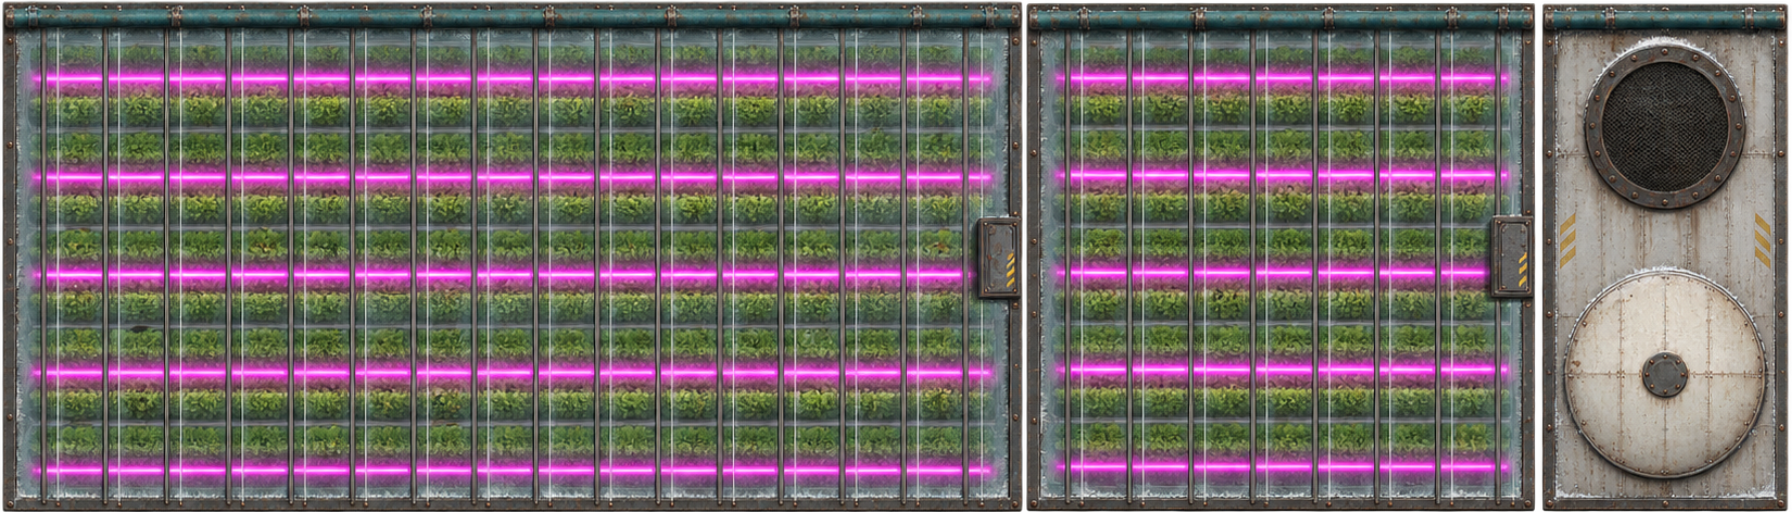
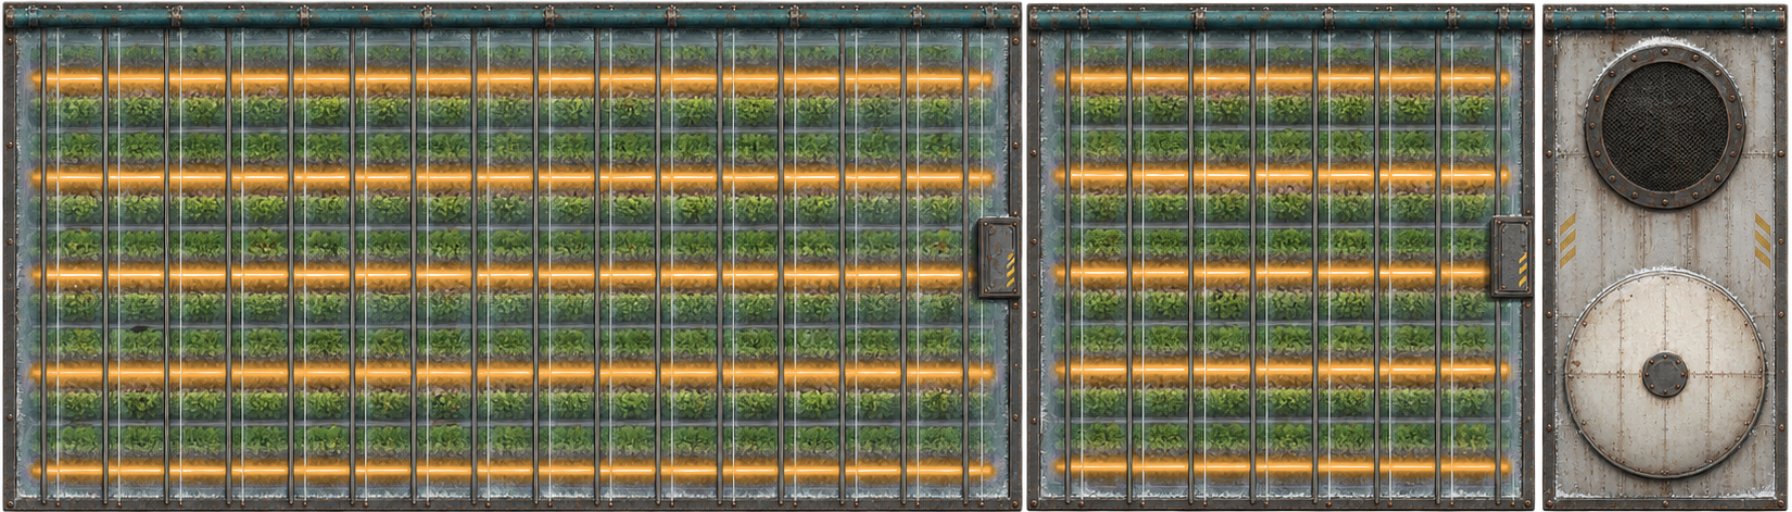
Covered farm grow-light is warm amber (owner: "I'm not a fan of the pink/purple"; picked "Warm amber"). grow-light-amber.py regrades each look's ImageGen raw from magenta to sodium amber, neutralising the faint pink spill on roofs, into <look>.amber.png, which the three tileset-authoring documents n

diff --git a/art-source/tilesets/grow-light-amber.py b/art-source/tilesets/grow-light-amber.py
@@ -1,0 +1,43 @@
+"""Regrades a covered farm sheet's grow-light from ImageGen's magenta to warm sodium amber (owner, 2026-11-10: "I'm not
+a fan of the pink/purple"; picked "Warm amber"). Reads `<look>.raw.png`, writes `<look>.amber.png` beside it, which the
+look's tileset-authoring document exports. Geometry and alpha are untouched; only pink-to-violet pixels move.
+
+Strong glow (saturated) takes amber at its own brightness; weak spill (a faint pink or salmon bloom on a roof) is
+neutralised to a warm grey instead, so it reads as lit surface rather than orange speckle.
+
+Usage: python art-source/tilesets/grow-light-amber.py hydro-sheds hydro-domes glasshouses
+"""
+import sys
+from pathlib import Path
+
+import numpy as np
+from PIL import Image
+
+HERE = Path(__file__).resolve().parent
+
+
+def regrade(src):
+    im = np.asarray(Image.open(src).convert('RGBA')).astype(np.float32) / 255
+    rgb, a = im[..., :3], im[..., 3:]
+    r, g, b = rgb[..., 0], rgb[..., 1], rgb[..., 2]
+    mx, mn = rgb.max(-1), rgb.min(-1)
+    d = np.maximum(mx - mn, 1e-6)
+    sat = np.where(mx > 0, (mx - mn) / np.maximum(mx, 1e-6), 0)
+    hue = np.where(mx == r, ((g - b) / d) % 6, np.where(mx == g, (b - r) / d + 2, (r - g) / d + 4)) * 60
+    # Pink to violet: 265-360 degrees; and the pale salmon bloom the light spills on a roof (0-20 degrees, faint
+    # only, so rust and copper of the same hue keep their colour).
+    spill = np.clip((22 - hue) / 6, 0, 1) * (hue < 22) * np.clip((0.32 - sat) / 0.08, 0, 1)
+    in_hue = np.clip(np.clip((hue - 265) / 15, 0, 1) + spill, 0, 1)
+    weight = in_hue * np.clip((sat - 0.012) / 0.05, 0, 1)
+    glow = np.clip((sat - 0.18) / 0.25, 0, 1)[..., None]
+    lum = (0.3 * r + 0.5 * g + 0.2 * b + mx) / 2
+    amber = np.stack([mx, mx * 0.70, mx * 0.30], -1)
+    grey = np.stack([lum * 1.02, lum, lum * 0.94], -1)
+    target = np.clip(amber * glow + grey * (1 - glow), 0, 1)
+    out = rgb * (1 - weight[..., None]) + target * weight[..., None]
+    return Image.fromarray((np.concatenate([out, a], -1) * 255).round().astype(np.uint8))
+
+
+if __name__ == '__main__':
+    for look in sys.argv[1:]:
+        regrade(HERE / f'{look}.raw.png').save(HERE / f'{look}.amber.png')

diff --git a/art-source/geometry-first-imagegen.md b/art-source/geometry-first-imagegen.md
@@ -131,7 +131,7 @@ Keep source inputs out of `mod/`; only exported art and its runtime catalog ship
 | Lobster trade | `templates/lobster-trade-guide.py`; a pressure tank with a lobster behind its porthole, the same tank burst open and empty with spilled water, a pressurised shipping crate and a 2x1 licensed range with a clamped pressure cooker, at 300 px a cell; ImageGen kept the layout but drew it about 1.6x, so each piece is cut at its guide frame carried through its own measured transform | `templates/lobster-trade-guide.*`, `tilesets/lobster-trade.*` | `street-kit-look` |
 | Street dressing | `templates/street-dressing-guide.py`; two sheets at 300 px a cell: three 3x1 shop awnings (wall rail on the frame's north edge) and two 1x1 street lamps (arm north, since cut for the street-lamps sheet); a 3x1 overhead pipe rack cut per cell with flange collars on every cell boundary so a straight cell repeats, the gantry column, a 2x1 jersey barrier, a bollard, a boom-gate post and its 3x1 arm | `templates/street-dressing-guide.*`, `templates/industrial-street-kit-guide.png`, `tilesets/street-dressing.*`, `tilesets/industrial-street-kit.*` | `main-street-look`, `street-kit-look` |
 | Street lamps | `templates/street-lamps-guide.py`; a street lamp seen straight down is its head, the post hidden under it, so no pole is drawn lying across the ground: a colonial lantern roof and a cobra-head housing as 1x1 kerb lamps, and the same heads on short brackets off a wall along the frame's north edge, at 300 px a cell. ImageGen kept the guide's scale and registration | `templates/street-lamps-guide.*`, `tilesets/street-lamps.*` | `street-kit-look`, `cordoned-facility-look` |
-| Covered farm | `templates/hydroponics-guide.py`; three looks of three pieces each, every piece filling its footprint with magenta in the guide wherever grow-light shines: a 6x3 pressurised shed with two lit skylights, its 3x3 half and a 2x3 pump house (160 px a cell); a 9x4 pair of lit geodesic domes on a tube, a 4x4 dome and a 2x4 tank station; an 8x4 glass hall under grow-light bars, its 4x4 half and a 2x4 boiler house (125 px a cell). ImageGen returned each sheet uniformly at 0.943 with every piece on its guide, so each is cut at its scaled guide frame (`tools/codex_imagegen.py`) | `templates/hydroponics-guide.py`, `templates/{hydro-sheds,hydro-domes,glasshouses}-guide.png`, `tilesets/{hydro-sheds,hydro-domes,glasshouses}.*` | `planet-skin-look` |
+| Covered farm | `templates/hydroponics-guide.py`; three looks of three pieces each, every piece filling its footprint with magenta in the guide wherever grow-light shines: a 6x3 pressurised shed with two lit skylights, its 3x3 half and a 2x3 pump house (160 px a cell); a 9x4 pair of lit geodesic domes on a tube, a 4x4 dome and a 2x4 tank station; an 8x4 glass hall under grow-light bars, its 4x4 half and a 2x4 boiler house (125 px a cell). ImageGen returned each sheet uniformly at 0.943 with every piece on its guide, so each is cut at its scaled guide frame (`tools/codex_imagegen.py`); `tilesets/grow-light-amber.py` regrades ImageGen's magenta grow-light to the owner's warm amber into `<look>.amber.png`, which is what exports | `templates/hydroponics-guide.py`, `tilesets/grow-light-amber.py`, `templates/{hydro-sheds,hydro-domes,glasshouses}-guide.png`, `tilesets/{hydro-sheds,hydro-domes,glasshouses}.*` | `planet-skin-look` |
 | Ship openings and decks | `ShipInteriorMaterialTemplate`; full-cell cardinal openings and seamless resin samples | `templates/ship-interior-materials.png`, `tilesets/ship-interior-materials.*` | `ship-materials` |
 
[1 lines of base64/hex data omitted]

diff --git a/roadmap/mapgen/design/story-map-pools.md b/roadmap/mapgen/design/story-map-pools.md
@@ -101,7 +101,8 @@ through or built on (`PlanetSkinTest`). It swaps:
   between pieces, each row of long pieces finished with a short one or a plant
   piece (pumps, tanks, a boiler), and short pieces on a grid on a plot too
   short for a long one. Three looks (`PlanetSkin.FarmLook`) await the owner's
-  pick, each piece lit by magenta grow-light and piped: pressurised sheds
+  pick, each piece lit by warm amber grow-light and piped (owner, over
+  ImageGen's pink: "Warm amber"): pressurised sheds
   (`hydro-sheds`), linked geodesic domes (`hydro-domes`) and glass halls
   (`glasshouses`), with no farm as the control. The pieces are walk-in and
   coverless, so pathing, sight and cover are the home map's. Paved hydroponic
